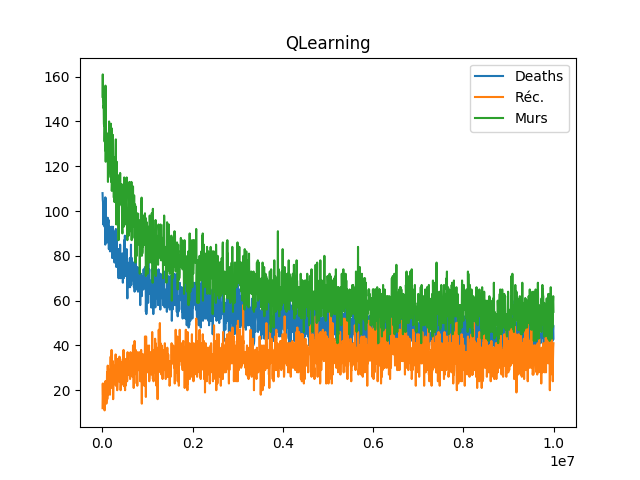
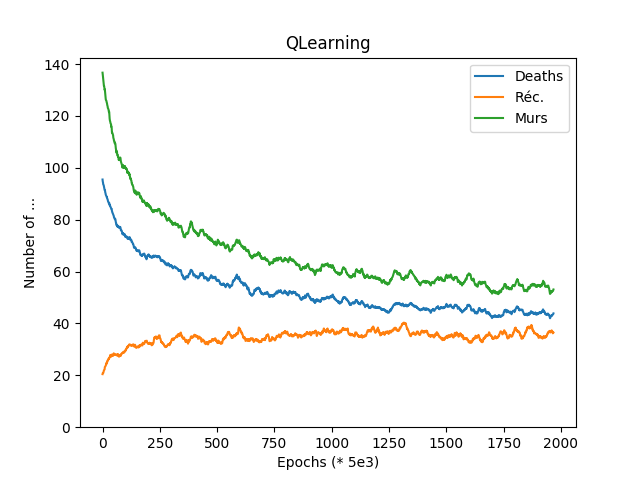
Updated README.md and output files

diff --git a/src/dataplot.py b/src/dataplot.py
@@ -4,6 +4,11 @@ import matplotlib.pyplot as plt
 
 
 def parse_file(filename):
+    """
+    Parses file of given name
+    :param filename: name of the file to parse
+    :return: dataset
+    """
     try:
         rawData = open("../output/" + filename + ".pltdt", "r")
     except IOError as e:
@@ -20,24 +25,53 @@ def parse_file(filename):
     return data
 
 
-def plot_data(data, filename):
+def plot_data(data, filename, smoothen=True):
+    """
+    Plot the data (to an output PNG file)
+    :param data: dataset to plot
+    :param filename: name of the considered file
+    :param smoothen: if the curve should be smoothen out
+    """
     if not data:
         return
 
+    deaths = data[1]
+    cheeses = data[2]
+    walls = data[3]
+
     plt.figure(filename)
     plt.title(filename)
-    plt.plot(data[0], data[1], label="Deaths")
-    plt.plot(data[0], data[2], label="Réc.")
-    plt.plot(data[0], data[3], label="Murs")
+    plt.plot(smooth_out(deaths, 15) if smoothen else deaths, label="Deaths")
+    plt.plot(smooth_out(cheeses, 15) if smoothen else cheeses, label="Réc.")
+    plt.plot(smooth_out(walls, 15) if smoothen else walls, label="Murs")
+
+    plt.ylim(0,)
+
+    plt.xlabel("Epochs (* 5e3)")
+    plt.ylabel("Number of ...")
 
     plt.legend()
-    plt.show()
+    plt.savefig("../output/" + filename + ".png")
+
+def smooth_out(dataset, mean_radius):
+    """
+    Smoothing out dataset by calculating the rolling average
+    :param dataset: values to smoothen
+    :param mean_radius: the radius of the rolling interval
+    :return: smoothen dataset
+    """
+    ret = []
+    for index in range(mean_radius, len(dataset) - mean_radius):
+        average = np.mean(dataset[index - mean_radius:index + mean_radius + 1])
+        ret.append(average)
+    return ret
 
 
-qlearn = parse_file("QLearning")
-sarsa = parse_file("SARSA")
-rnd = parse_file("none")
+if __name__ == '__main__':
+    qlearn = parse_file("QLearning")
+    sarsa = parse_file("SARSA")
+    rnd = parse_file("none")
 
-plot_data(qlearn, "QLearning")
-plot_data(sarsa, "SARSA")
-plot_data(rnd, "none")
+    plot_data(qlearn, "QLearning")
+    plot_data(sarsa, "SARSA")
+    plot_data(rnd, "none")

diff --git a/README.md b/README.md
@@ -7,8 +7,8 @@ Fares Jean-Marc
 
 ##0 - Introduction
 
-La seconde partie du module Info[---] se concentre sur l'apprentissage par renfocrement, qui, à la différence de l'apprentissage supervisé, nous permet de créer un agent conscient du monde dans lequel il évolue, sans connaitre de stratégies a priori. Ce système d'intelligence artificielle convient parfaitement dans le cadre du développement d'un jeu vidéo.
-Ainsi, comme propoé par le sijet, nous allons écrire un algorithme d'apprentissage par renfocrement ayant pour but de maitriser un jeu PacMan sans connaissances autres que l'environnement.
+La seconde partie du module Info215 se concentre sur l'apprentissage par renfocrement, qui, à la différence de l'apprentissage supervisé, nous permet de créer un agent conscient du monde dans lequel il évolue, sans connaitre de stratégies a priori. Ce système d'intelligence artificielle convient parfaitement dans le cadre du développement d'un jeu vidéo.
+Ainsi, comme propoé par le sujet, nous allons écrire un algorithme d'apprentissage par renfocrement ayant pour but de maitriser un jeu PacMan sans connaissances autres que l'environnement.
 
 [Présentation du plan de l'étude]
 
@@ -23,10 +23,12 @@ Ainsi, comme propoé par le sijet, nous allons écrire un algorithme d'apprentis
 
 ###B - Données
 Pour contrôler le progrès de l'apprentissage, nous avons reccueilli le nombre de morts, de récompenses et de murs rencontrés. Nous avons fait le choix de faire jouer dix millions de parties à notre programme et sauver les indicatuers toutes les conq mille parties ; on peut alors tracer un graphique des trois grandeurs en fonction du nombre de parties.
-Afin de visualiser ces données, depuis notre programme principal, on les écrit dans un fichier "[nom_de_methode].pltdt" ; ensuite, on écrit un script Python qui cherche les différents fichiers de données possibles et les affiche à l'aide de la librairie Matplotlib.
+Afin de visualiser ces données, depuis notre programme principal, on les écrit dans un fichier "[nom\_de\_methode].pltdt" ; ensuite, on écrit un script Python qui cherche les différents fichiers de données possibles et les affiche à l'aide de la librairie Matplotlib.
 On obtient les graphiques suivants :  
 
-[fig.]
+![Fig. #: Random play](/Users/al1nk/Documents/Developer/Java/pocman/output/none.png)
+![Fig. #: SARSA Learning](/Users/al1nk/Documents/Developer/Java/pocman/output/SARSA.png)
+![Fig. #: Q-Learning](/Users/al1nk/Documents/Developer/Java/pocman/output/QLearning.png)
 
 ###C - Analyse
 
